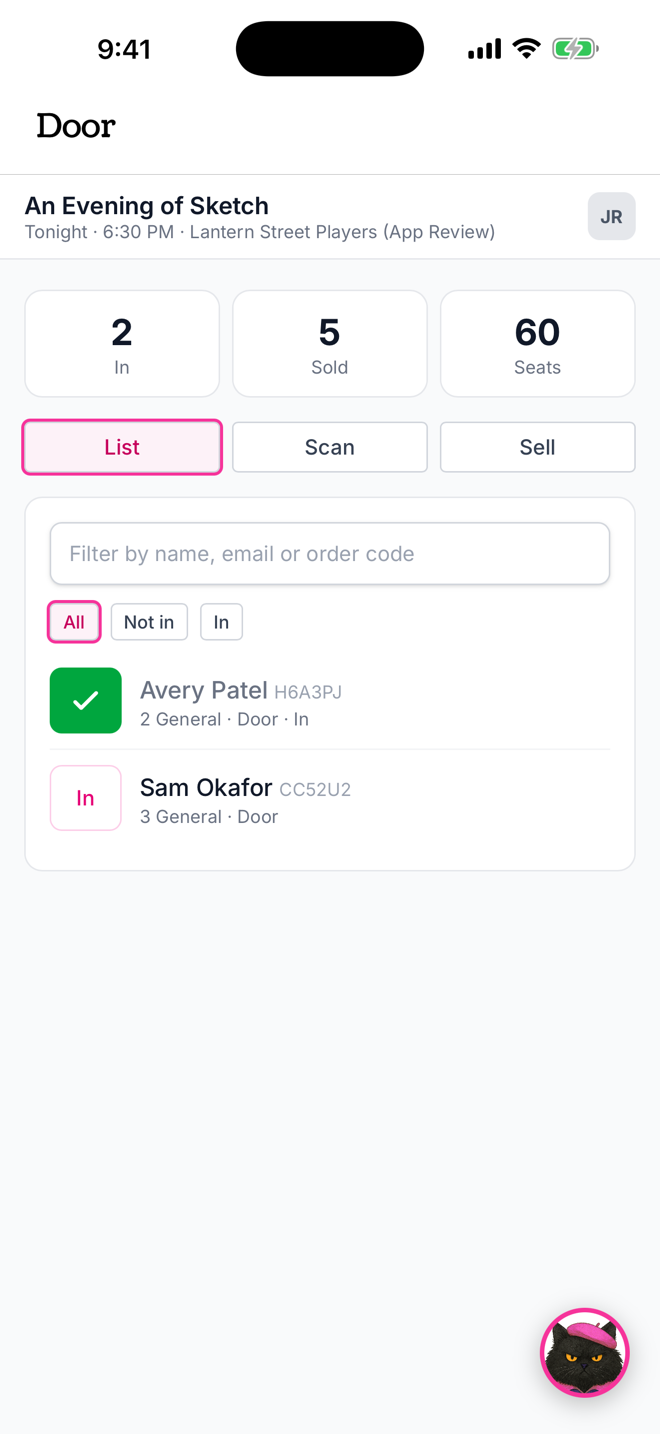
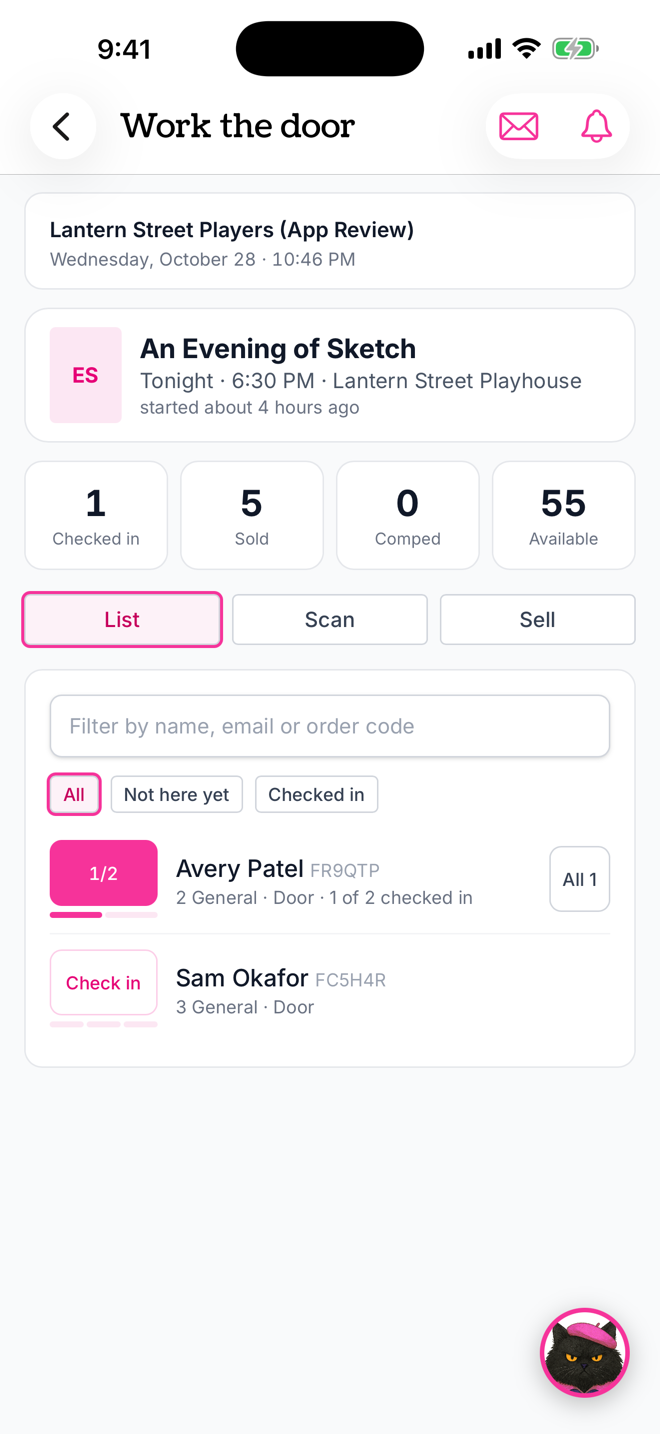
Get the app: the V1.1 app's own screens (Home, and the Door admitting someone)

diff --git a/spec/requests/get_the_app_spec.rb b/spec/requests/get_the_app_spec.rb
@@ -25,7 +25,7 @@ RSpec.describe "Get the app", type: :request do
       expect(body).to include("CocoScout in your pocket.")
       expect(body).to include(%(href="#{get_the_app_path}"))
       expect(body).to include("now on iPhone and Android") # the hero line links down to it
-      expect(body).to include("app/my-calendar") # a real screenshot, not a drawing
+      expect(body).to include("app/home") # a real screenshot, not a drawing
     end
 
     it "has the same section on For Performers and For Producers, above their bands" do
